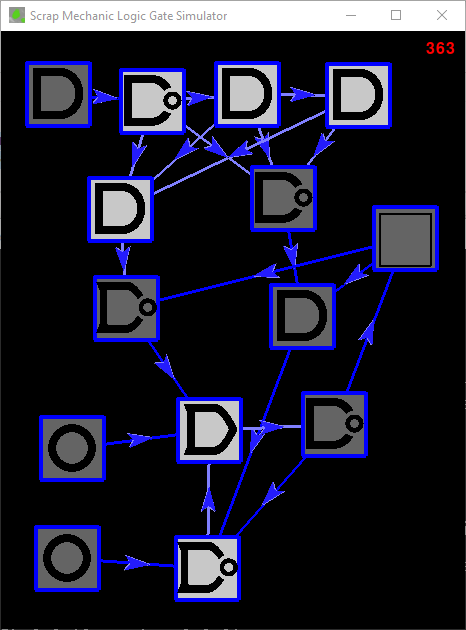
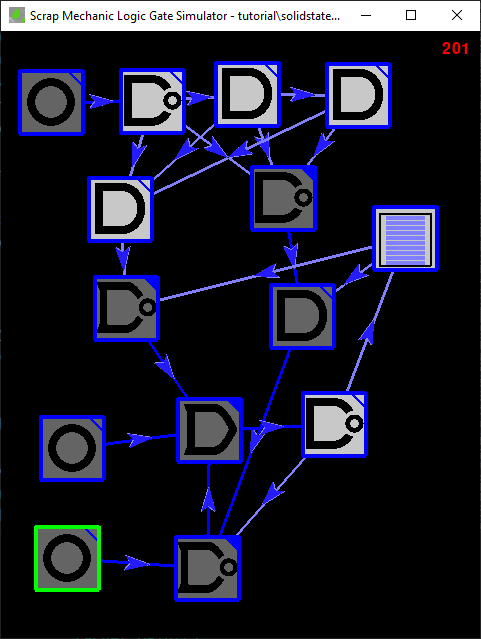
Update the tutorial with the save-state stuff

diff --git a/readme.md b/readme.md
@@ -118,11 +118,11 @@ To illustrate this, run the simulator, set the input object to "On" and let the 
 
 The way you want to think about it is this:  _The color of the inputs will always explain the current state of the gate_.  The state of a gate will flow down the wire to the next gate, _but on the next tick_.  You might think "Wait!  That's now how Scrap Mechanic Works!" and there's some truth to that, but if the circuit is in a stable state, there's no difference between what's "in the wire" and the gate itself.  The simulator is meant to help you with _unstable_ circuits, and so it takes the time to show you this nuance.
 
-### Glitches - Logic Gates
+### Loading - Logic Gates and Switches
 
 Most folks who go to the trouble of installing this thing and reading this far have done so because they just can't figure out why their machine behaves wonkily and they want to square it up.  For example, if you create the ubiquitous NOR-flip-flop memory circuit, you'll find that it can do some odd things when you load back into the game or when you come back to your base from afar.  Sometimes the circuit is as you left it.  Sometimes it's completely spazzing out, and sometimes it's in a different state than when you left it.
 
-Some of that wonky behavior comes from our own goofs, but a good part of it comes down to this:  what we would expect Scrap Mechanic to do is to save the state of the logic gates on-exit so that it would come back to that state when we load back in.  But this is Scrap Mechanic, so you have to throw that idea out the window.  It saves the state of your logic gate at a few magic times:
+Why would that be?  Surely you'd think that Scrap Mechanic would save the current state of your circuits when it unloads a block and reload that state when you load the game back up or return from some distant land in your car.  But no.  It doesn't work like that.  That would make a lot of sense.  That's the way I think I'd make it work, but this is Scrap Mechanic, and it is as it does.  It saves the state of your logic gates and switches at a few magic times:
 
 1. When you take it off the lift.
 2. When you change the nature of the gate (e.g. switch from an "AND" to a "NOR" gate).
@@ -131,16 +131,15 @@ Some of that wonky behavior comes from our own goofs, but a good part of it come
 
 Note that this business of taking things off the lift saving state is also true for switches!  Try this:  bolt a light and a switch together on the lift, connect the switch to the light, flip the switch on, then take the thing off the lift.  Light's still on.  Turn the switch off.  Exit.  When you load back in, observe that the switch is on again!  Put it on the lift, turn it off, take it off the lift, turn it on, exit, come back and lo, the switch is off.  Same thing for painting the switch:  turn it on, paint it, turn it off, exit, come back and boom, it's on again.
 
-The simulator does not replicate this behavior for the following sketchy reasons:
+The saved state is signified by the triangle in the upper-right corner of logic gates and switches in the simulator.  A filled in triangle means it's saved state is `On` and an empty triangle is `Off`.
 
-1. Laziness.
-2. It's hard to believe anybody could or would rebuild a machine from the simulator plan click-for-click.
-3. I could be wrong.  I got this theory-of-scrap-mechanic from experimentation and observation; I'd love to hear if others can replicate my results.
-4. You'd think that one day the scrap mechanic devs will fix this.
+One thing to note about the simulator and saved state is the simulator lets you do some stuff that's not practically possible in the game because it lets you pause the game.  If you're trying to replicate a sequence of moves in the simulator that you're going to do in the game, only use `P` (save the state) when the circuit is actually at a stable state.  (That is, pressing `F10` doesn't change the `On` / `Off` state of your circuit.)
 
-### Glitches - Timers
+### Loading - Timers
 
-Strictly speaking, I don't know of any glitch with timers themselves, that's because, unlike logic gates, their states _are_ stored when you exit as they are in the game (and not, like logic gates, like they were when they were on the lift).  But if you've ever built a repeating timer, you probably noticed that this happens:
+Unlike logic gates and switches, Timer states _are_ stored when you exit as they are in the game when you unloaded and not, like logic gates, like they were when they were on the lift.  This is also true for state-ful interactables like pistons and controllers.  E.g. if you hook a button up to a controller and a piston, then flip the button on, exit, and come back, you'll find your piston retracting and your controller un-spinning.  That is, on-load, they were in their extended/rotated state, but as soon as they loaded back in, the signal they get from the switch (which flipped itself off on reload) is telling them to retract.
+
+That brings its own brand of mischief to the table.  If you've ever built a repeating timer, you probably noticed that this happens:
 
 ![timer](tutorial/timer.png)
 
@@ -157,7 +156,7 @@ You can replicate this in scrap mechanic pretty easily.  Create a timer circuit 
 
 ## Glitch-Proofing Our Stuff
 
-Making a glitch-proofer for the load-in thing is actually pretty tricky.  We'll start with something really basic and then work our way through to fixing the timer glitch and creating a memory-cell that remembers its state even on reload.
+Making a glitch-proofer for the load-in thing requires a fair bit of care.  We'll start with something really basic and then work our way through to fixing the timer glitch and creating a memory-cell that remembers its state even on reload.
 
 ### 3-Tick Pulse Extender
 
@@ -177,19 +176,11 @@ Notice that the top button is not protected, and can cause the memory bit to spa
 
 It's a really trivial thing, but you'll see it quite a bit, so be sure you fully grok it before moving on.
 
-### Load-In Detector
-
-There are a lot of different ways to make one of these circuits.  Here's one that works fine in the simulator.  It will too in the game if you hold your mouth just right.  In the next section, we'll talk about how to do that.  For now, let's just look at it in the simulator where we can step through it easily.
-
-![loadsignal.json](tutorial/loadsignal.png)
-
-Here the normal state would be that all of the inputs to the second row would naturally be true all the time, _except when we're loading in_, where they will be false until the top-left nand gate's signal reaches them.
-
-To make this practical, I've tied the signal to a memory bit - so this is a memory bit that will reset itself automatically on reload and not spaz out.  Well, that's not quite true, as you can see if you step through it - it does become set for two ticks before settling back to unset.  I bet a clever person could weed that out of the system if it caused mayhem in their build.
-
 ### Building a Load-In Detector In the Game
 
-Making this happen in the game is tricky, and more than a little bit frustrating if you haven't learned the trick I discussed above about exactly when it saves things.  Let's walk through exactly how to do it by building a demonstration circuit.  Here's what we're building:
+Given that our circuitry can get out of kilter on reload, it'd be a good thing if we could make a circuit that will detect this condition and allow us to recover from it.
+
+Making this happen in the game is tricky, and more than a little bit frustrating if you haven't learned the rules for exactly when it saves things.  Let's walk through exactly how to do it by building a demonstration circuit.  Here's what we're building:
 
 ![Connections](tutorial/smloaddetector-build.png)
 
@@ -202,7 +193,7 @@ Here are some things to pay special attention to when recreating this:
 1. It is on the Lift
 2. There's a switch, and _it must be turned **ON**_!
 3. The first timer is 10 seconds, and is just there to sort of buffer the signal while you're getting your bearings after loading.  Adjust as you desire.
-4. The next two timers are set to 10 ticks - which is a handy thing because there are 10 bars on the side of the timer, so you can see the wave-form well.  It's in a loop so you can watch it better.  It's important, because if you're just learning this stuff, you'll ask "did I really just see that???!" more than once.
+4. The next two timers are set to 9 ticks - which is a handy thing because there are 10 bars on the side of the timer, so you can see the wave-form well.  Why 9 and not 10?  Note that you _can_ make a "0 tick" delay - but if you string a series of 0-tick timers in a line, you'll see the signal travel through them, just like it does for a logic gate.  When scrap mechanic says there's a 0-tick delay, they mean a 0-tick delay over and above the 1-tick delay that every interactable gets.  Anyway, the 9-tick timers are in a loop so you can watch it better.  It's important, because if you're just learning this stuff, you'll ask "did I really just see that???!" more than once.git st
 
 Take it off the lift now, exit and come back, and it'll be in exactly this state.  Another interesting exercise is to flip the switch off, wait for the timers, and reload.  Observe that the timers have retained their content, but the switch and the logic gates are all as they were.
 
@@ -233,15 +224,37 @@ To underline the point, try this:  change the last AND gate in the chain to an O
 
 Let's go over in detail why we see two bars:  The first bit that heads into the timers comes from the NAND gate.  That was last touched when it was on the lift, and it was in the ON state then, so the first bit that hits the timer is `True`.  The next guy in the chain is from the AND gate that was turned into an OR, and it was ON when it was twiddled, so the ON gets translated by the NAND gate into a `False` so we get an empty slot in our timer.  Next, we get the untouched AND gate, which was OFF when it was on the lift.  So that flows into the newly-made OR gate and stays the same, then goes on into the NAND gate and gets turned into a `True` heading into the timer.  Finally, there's the NAND gate at the front of the stack, and it became ON when we attached the button, so it flows to the final NAND gate as a `True` and therefor sends a `False` tick to the timer.  And, of course, every subsequent tick it stays `False` for the same reason.
 
+### The Load-detector in the simulator
+
+You can walk through this in the simulator stepwise to see the same effects happen in slo-mo.  You'll find tutorial\loadsignal.json is ready for you - it's got the circuit built and in the state it'd be when it's on the lift.
+
+![On the lift](tutorial/loadsignal-onlift.png)
+
+Take it off the lift with `Shift-P`.  When you do that, the only change you will see are the colored triangles that indicate the saved state changing to reflect their current state.
+
+If you then do the "magic" steps discussed above (deleting the switch and re-adding it, and so on), you get this:
+
+![After the Magic](tutorial/loadsignal-aftermagic.png)
+
+Notice how the NAND gate's save state changed after we reconnected the now OFF input gate.  It's also crucial to note that the save state of the three subsequent gates is the opposite of their current state.  When you press `F4` (to simulate a reload) and press `F5` (to start the simulator running), you get the effect we observed in the game.
+
 ### Solid-State Memory
 
 What if you want a memory bit that keeps its state even after you unload and reload?  As we showed above, we can get a signal that fires when we reload, and we've also pointed out that timers do retain their state across reload.  So, to put the two together, we can build this:
 
 ![solidstate.json](tutorial/solidstate.png)
 
-Basically instead of sending the on-reload signal directly to the reset pin, we're routing it to either the set or the reset pin depending on what's flowing out of the timer.
+Note the load-in detector circuit like before, and remember that when you build these things, you have to prime it a bit.  Here's how you can simulate the priming of this one:
 
-Note that you need to set up your timer so that it's at least 5 ticks long in the game.  (Alas, in the simulator all timers are hard-coded to 10 ticks because lazy.)
+  1. Press `Shift-F4`
+  2. Press `F5`  -- now you've got it on the lift and it's jittering wildly.
+  3. Turn the input in the top-left on and let it stabilize.
+  4. Press `Shift-P` to simulate taking it off the lift.
+  5. Turn the switch in the top left off and paint it with `P`
+
+The output of the on-reload signal gets paired with the content of the timer (which is what's remembering the saved state) and routed to either the set or the reset pin.
+
+Note that you need to set up your timer so that it's at least 5 ticks long in the game.  (Alas, in the simulator all timers are hard-coded to 9/10 ticks.)
 
 ### Timer Wiper
 
@@ -252,6 +265,8 @@ It's tiresome and embarassing.  What can we do?  Well, there are probably some c
 Note that I'm chaining timer circuits together here, but in the game it'd be silly not to just use a single timer, programmed with a longer duration than your main circuit's timers.
 
 ![timerwiper.json](tutorial/timerwiper.png)
+
+There's more than one way to do this.  In my own game, I didn't implement it like this.  I built a circuit that detects a `True-False-True` sequence to initiate the wipe rather than the on-load event.  Further, you oftentimes don't actually need solid state memory.  For example, in my farm I have memory-cells that is true when the planter is moving forward and false when it's moving backwards or parked.  I simply put the memory cell into the "parked" state and painted it at that time.  That works more than fine - I'm very, very unlikely to ever exit or unload the game while the planter is in motion.  I dare say that's true for most stuff.  An elevator might be an example of something where you'd really want a solid-state circuit, but you could also get that effect by other means (e.g. a floor-sensing detector).
 
 ## Issues and contributing
 
